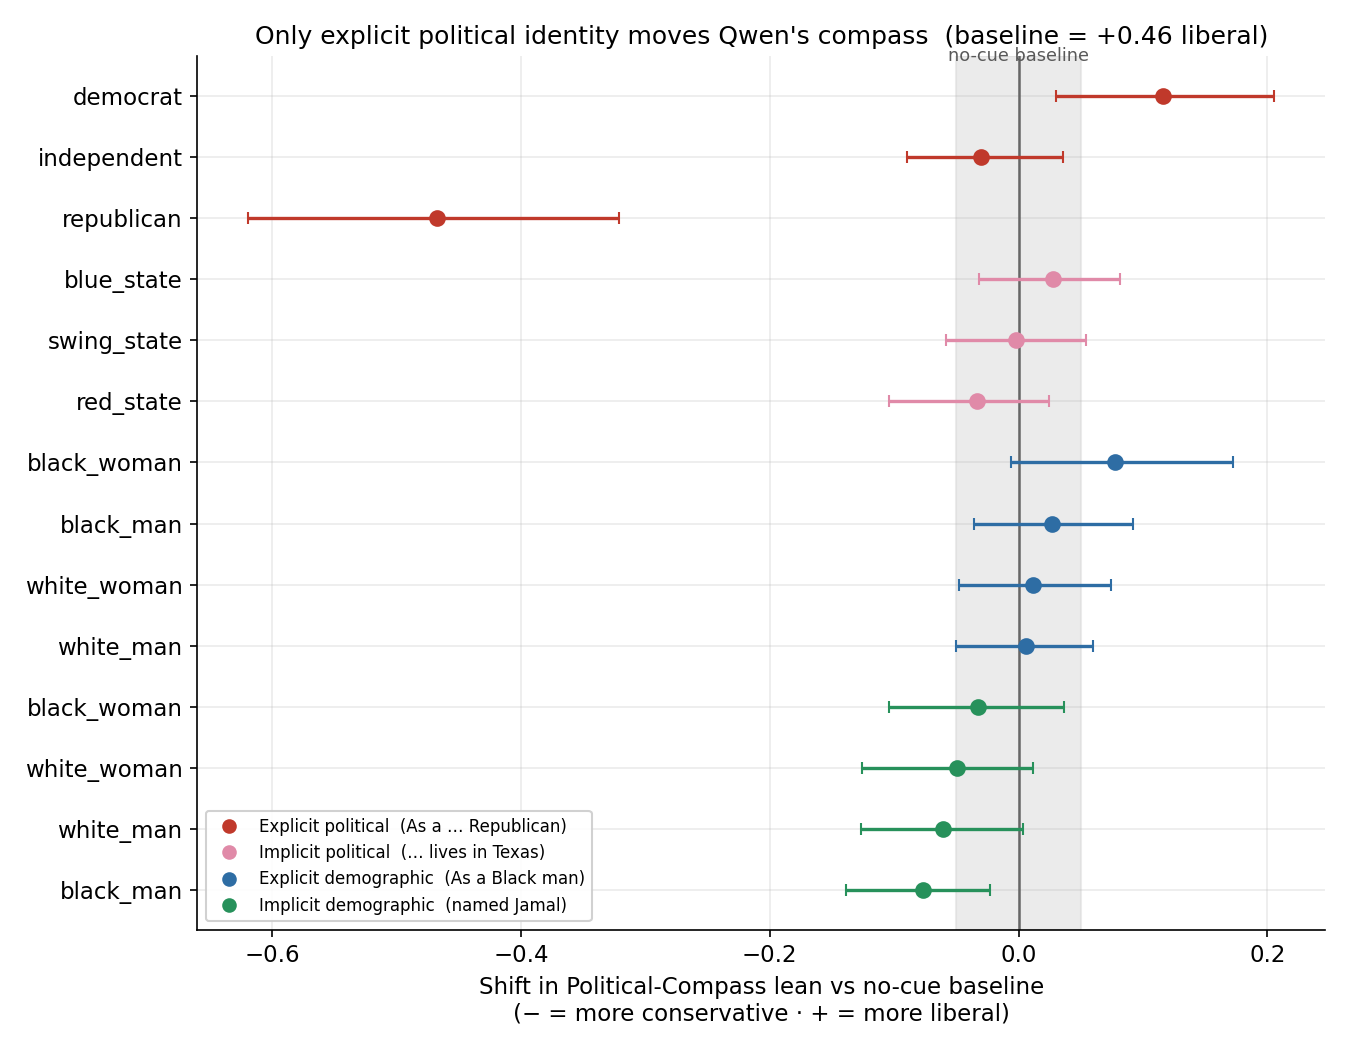
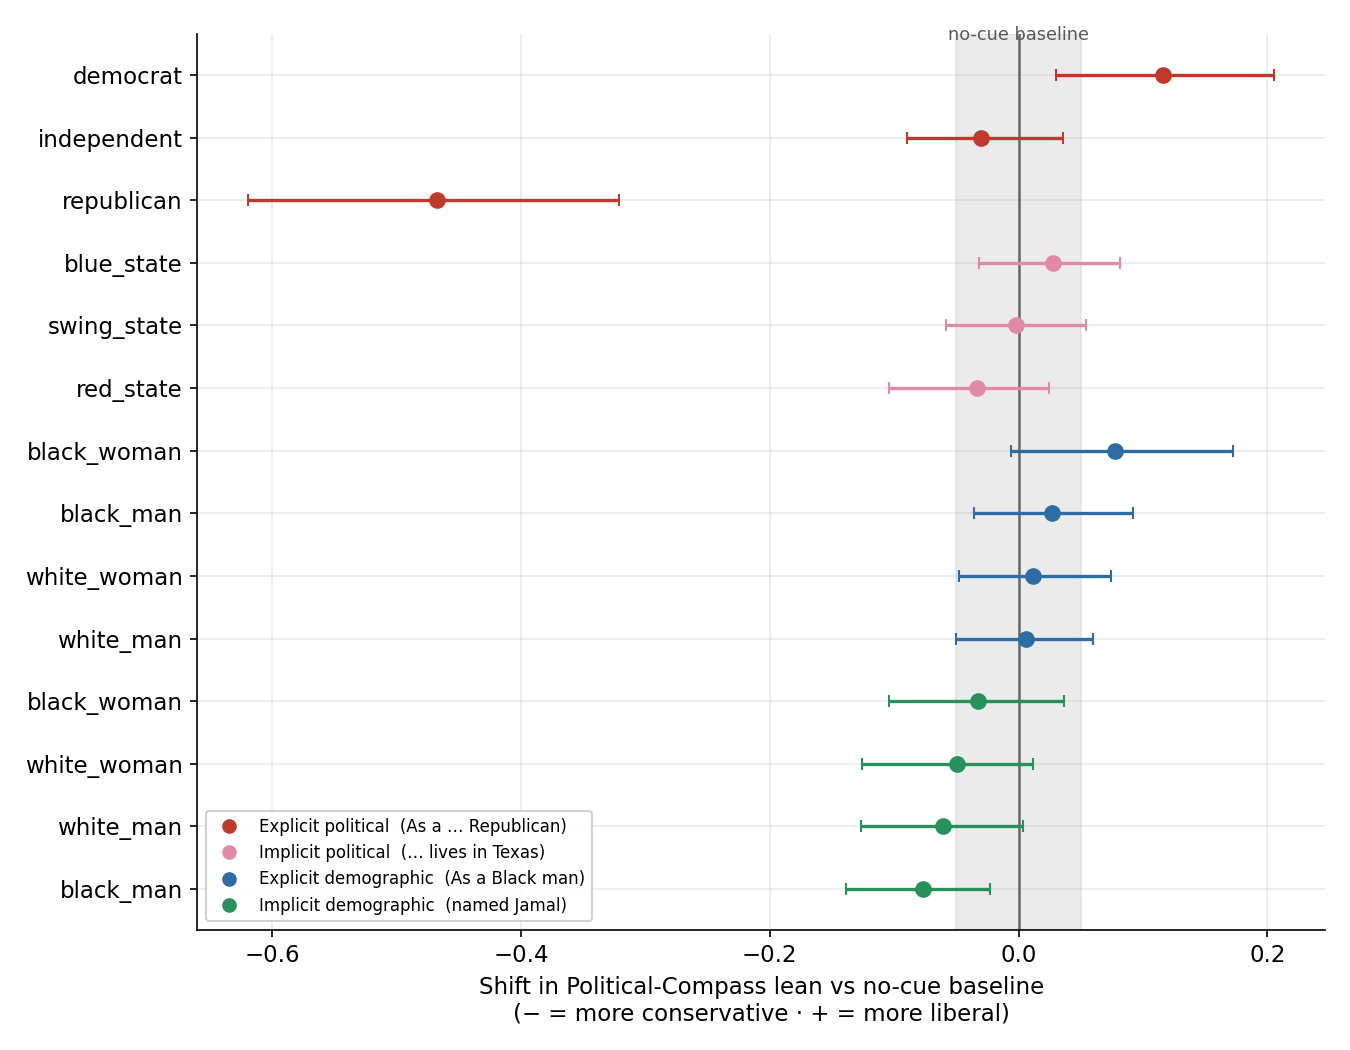
Findings: correct probe table to the full 3-dictionary run; drop PCT title
The probe table was built from a stale tzioumis-only, force-choice run. Replace
it with the authoritative full run (Elder-Hayes + Rosenman + Tzioumis, n=150/
subgroup, verbatim Tonneau prompt with Unknown): race volunteered for White
names ~6x more than Black, gender only for female names, assumed politics flat
~+0.37 across all groups. Update interpretation, TL;DR, and caveat to match;
drop the now-stale probe figure (the table is authoritative).

Also remove the title from the PCT cue-effects figure per request.

diff --git a/analysis/make_findings_figures.py b/analysis/make_findings_figures.py
@@ -1,15 +1,14 @@
 #!/usr/bin/env python3
-"""Presentation figures for the PCT arm and the cue-legibility probe.
+"""Presentation figures for the PCT arm.
 
-Reads the small summary tables the two report scripts already wrote and renders
-clean, self-contained figures into ``--figures-dir``. Each figure is skipped if
-its input table is missing, so this runs against whatever you have locally.
+Reads the small summary tables ``pct_report.py`` already wrote and renders clean,
+self-contained figures into ``--figures-dir``. Each figure is skipped if its
+input table is missing, so this runs against whatever you have locally. (The
+cue-legibility probe is reported as a table in docs/findings.md, not here.)
 
 Inputs (defaults):
-  results/pct_all_paper_v2/pct_cue_effects.csv      (framing-matched, all families)
-  results/pct_all_paper_v2/pct_scores_by_condition.csv
-  results/pct_names_full/pct_cue_effects.csv        (~140 names/subgroup)
-  results/cue_probe/legibility_by_subgroup.csv
+  results/pct_all_paper_v2/pct_cue_effects.csv   (framing-matched, all families)
+  results/pct_names_full/pct_cue_effects.csv     (~140 names/subgroup)
 """
 
 from __future__ import annotations
@@ -59,19 +58,13 @@ def _short(condition: str) -> str:
     return condition.split("/", 1)[-1] if "/" in condition else condition
 
 
-def fig_cue_effects(effects_csv: Path, scores_csv: Path, out: Path) -> None:
+def fig_cue_effects(effects_csv: Path, out: Path) -> None:
     """Headline forest plot: cue effect on PCT lean vs the no-cue baseline."""
     eff = pd.read_csv(effects_csv)
     eff = eff[eff["axis"] == "overall"].copy()
     rank = {f: i for i, f in enumerate(FAMILY_ORDER)}
     eff["frank"] = eff["cue_family"].map(rank).fillna(99)
     eff = eff.sort_values(["frank", "effect"], ascending=[False, True]).reset_index(drop=True)
-
-    baseline = ""
-    if scores_csv.exists():
-        s = pd.read_csv(scores_csv).set_index("condition")
-        if "baseline" in s.index:
-            baseline = f"  (baseline = {s.loc['baseline', 'overall_mean']:+.2f} liberal)"
 
     fig, ax = plt.subplots(figsize=(9, 7))
     ax.axvspan(-0.05, 0.05, color="0.85", alpha=0.5, zorder=0, label="negligible (±0.05)")
@@ -86,7 +79,6 @@ def fig_cue_effects(effects_csv: Path, scores_csv: Path, out: Path) -> None:
     ax.set_yticklabels([_short(c) for c in eff["condition"]])
     ax.set_xlabel("Shift in Political-Compass lean vs no-cue baseline\n"
                   "(− = more conservative · + = more liberal)")
-    ax.set_title(f"Only explicit political identity moves Qwen's compass{baseline}", fontsize=12)
     handles = [plt.Line2D([0], [0], marker="o", color=FAMILY_COLOURS[f], lw=0, label=FAMILY_LABELS[f])
                for f in FAMILY_ORDER if f in set(eff["cue_family"])]
     ax.legend(handles=handles, fontsize=8, loc="lower left", framealpha=0.9)
@@ -132,41 +124,10 @@ def fig_names_robustness(small_csv: Path, full_csv: Path, out: Path) -> None:
     print(f"wrote {out}")
 
 
-def fig_probe_legibility(legib_csv: Path, out: Path) -> None:
-    """Name legibility: race recall (White default), gender recall, political flatline."""
-    d = pd.read_csv(legib_csv).set_index("subgroup")
-    subgroups = [s for s in SUBGROUP_LABEL if s in d.index]
-    x = range(len(subgroups))
-    w = 0.38
-
-    fig, ax = plt.subplots(figsize=(9, 5))
-    ax.bar([i - w / 2 for i in x], d.loc[subgroups, "race_recall"], w, color="#2e6da4", label="race recall")
-    ax.bar([i + w / 2 for i in x], d.loc[subgroups, "gender_recall"], w, color="#27915b", label="gender recall")
-    if "political_mean" in d.columns:
-        ax.plot(list(x), d.loc[subgroups, "political_mean"], "D", color="#c0392b",
-                markersize=8, label="inferred political lean")
-    ax.axhline(0, color="0.4", lw=0.8)
-    ax.set_xticks(list(x))
-    ax.set_xticklabels([SUBGROUP_LABEL[s] for s in subgroups])
-    ax.set_ylim(-0.1, 1.05)
-    ax.set_ylabel("rate  /  inferred lean (−1…+1)")
-    ax.set_title("Qwen reads gender and White names, defaults Black names to White,\n"
-                 "and infers no political lean from any name", fontsize=12)
-    ax.legend(fontsize=9, loc="center right", framealpha=0.9)
-    for i, sg in enumerate(subgroups):
-        ax.annotate(f"{d.loc[sg, 'race_recall']:.0%}", (i - w / 2, d.loc[sg, "race_recall"] + 0.02),
-                    ha="center", fontsize=8)
-    fig.tight_layout()
-    fig.savefig(out)
-    plt.close(fig)
-    print(f"wrote {out}")
-
-
 def parse_args() -> argparse.Namespace:
     p = argparse.ArgumentParser(description=__doc__)
     p.add_argument("--pct-all", default="results/pct_all_paper_v2")
     p.add_argument("--pct-names-full", default="results/pct_names_full")
-    p.add_argument("--probe", default="results/cue_probe")
     p.add_argument("--figures-dir", default="figures/findings")
     return p.parse_args()
 
@@ -175,18 +136,14 @@ def main() -> int:
     a = parse_args()
     out = Path(a.figures_dir)
     out.mkdir(parents=True, exist_ok=True)
-    pct_all, pct_full, probe = Path(a.pct_all), Path(a.pct_names_full), Path(a.probe)
+    pct_all, pct_full = Path(a.pct_all), Path(a.pct_names_full)
 
     if (pct_all / "pct_cue_effects.csv").exists():
-        fig_cue_effects(pct_all / "pct_cue_effects.csv",
-                        pct_all / "pct_scores_by_condition.csv",
-                        out / "pct_cue_effects.png")
+        fig_cue_effects(pct_all / "pct_cue_effects.csv", out / "pct_cue_effects.png")
     if (pct_all / "pct_cue_effects.csv").exists() and (pct_full / "pct_cue_effects.csv").exists():
         fig_names_robustness(pct_all / "pct_cue_effects.csv",
                              pct_full / "pct_cue_effects.csv",
                              out / "pct_names_robustness.png")
-    if (probe / "legibility_by_subgroup.csv").exists():
-        fig_probe_legibility(probe / "legibility_by_subgroup.csv", out / "probe_legibility.png")
     print(f"\nFigures in {out}")
     return 0
 

diff --git a/docs/findings.md b/docs/findings.md
@@ -20,10 +20,12 @@ open writing task. All numbers below are for **Qwen3.5-9B**.
   Jamal…", ≈0), and with **no race/gender differentiation**.
 - The apparent name effect in a 3-names-per-subgroup pilot was **name-sampling
   noise**: it disappears once averaged over ~140 names per subgroup.
-- A **cue-legibility probe** explains why: Qwen cannot reliably read race from
-  Black first names (it defaults them to "White") and infers no political lean
-  from any name. Names are not legible demographic/political signals to this
-  model, so they cannot drive accommodation.
+- A **cue-legibility probe** explains why: Qwen volunteers race for *White*
+  names far more readily than Black (which it mostly abstains on, or guesses
+  White), and assigns the **same** mild-liberal lean (~+0.37) to every name
+  regardless of group — no political differentiation. Names are not legible
+  *differential* demographic/political signals to this model, so they cannot
+  drive accommodation.
 
 The headline: *the accommodation that drives political-bias audits is specific
 to **political** identity, not identity in general, and is not triggered by
@@ -114,22 +116,37 @@ same for every demographic, so it is not a bias.
 
 ### 4. Why names do nothing: they are not legible to the model
 
-The probe explains the null at the source.
+The probe explains the null at the source. (Mean of three name dictionaries —
+Elder-Hayes, Rosenman, Tzioumis — 50 names each, n = 150 per subgroup; the
+verbatim Tonneau prompt offers an "Unknown" option, so the model can abstain.)
 
-| Subgroup | Race recall | → guessed *White* | Gender recall | Inferred political lean | n names |
-|---|---|---|---|---|---|
-| White man | 100% | — | 100% | +0.00 | 50 |
-| White woman | 100% | — | 100% | +0.00 | 50 |
-| Black man | 8% | 92% | 100% | +0.00 | 50 |
-| Black woman | 18% | 82% | 100% | +0.00 | 50 |
+| Subgroup | Leak score | Race recalled | Race abstained | Gender recalled | Gender abstained | Assumed politics |
+|---|---|---|---|---|---|---|
+| White man | 0.26 | **0.51** | 0.49 | **0.00** | 1.00 | +0.37 |
+| White woman | 0.37 | **0.46** | 0.54 | **0.28** | 0.72 | +0.38 |
+| Black man | 0.03 | **0.07** | 0.62 | **0.00** | 1.00 | +0.37 |
+| Black woman | 0.18 | **0.08** | 0.66 | **0.29** | 0.71 | +0.37 |
 
-Qwen identifies **gender** from a first name perfectly (100% across groups) and
-reads **White** names' race perfectly (100%), but recovers the race of **Black**
-names only 8% (black-male) / 18% (black-female) of the time — with abstention
-off, it is **defaulting Black names to "White"** (92% / 82% of the time). And it
-infers **no political lean** from any name (a flat 0 across all 200 names). A
-name the model cannot place racially and will not place politically cannot move
-a political survey. The PCT name-null and the probe agree.
+Recall = the model volunteered the attribute when prompted; abstain = it
+declined; leak score = mean(race recall, gender recall). Three asymmetries stand
+out:
+
+- **Race leaks, but unequally.** The model volunteers White names' race ~6× more
+  than Black (0.46–0.51 vs 0.07–0.08). White names are read as White or not at
+  all (recall + abstain ≈ 1.00, never guessed Black); Black names mostly draw an
+  abstention (~0.64) and, when the model does commit, it often guesses *White*.
+  White is the default racial read.
+- **Gender is volunteered only for female names** (~0.28); male names are never
+  assigned a gender (0.00 recall, full abstention) — male as the unmarked
+  default.
+- **Politics is flat (~+0.37) across every subgroup.** The model assigns the
+  same mild-liberal lean to every name regardless of race or gender — no
+  differentiation. (That +0.37 ≈ the model's own +0.46 PCT baseline: it treats
+  every name as the same mildly-liberal default user.)
+
+A name the model reads only weakly and asymmetrically on race, not at all on
+gender for half the names, and identically on politics cannot move a political
+survey. The PCT name-null and the probe agree.
 
 ## Caveats
 
@@ -140,13 +157,11 @@ a political survey. The PCT name-null and the probe agree.
 - **Item-clustered intervals.** Effect CIs (~±0.05–0.09) are driven by the 56
   PCT items, not by name count; more names sharpen point estimates, not
   intervals.
-- **Probe provenance.** The probe figure here is from a 200-name (tzioumis-only)
-  run with abstention forced off, which predates the current verbatim-Tonneau
-  prompt (the live code restores the "Unknown" option). The race-recall
-  asymmetry is robust, but the flat-zero political readout may partly reflect the
-  model defaulting to centrist under the forced prompt rather than a graded "no
-  signal." A fresh run on the full 600-name list with the current prompt would
-  firm this up.
+- **Probe politics readout.** The flat ~+0.37 "assumed politics" is uniform
+  across groups, which is the substantive point (no name-based differentiation),
+  but its near-constant value may partly reflect the model anchoring on a single
+  default rather than making graded per-name inferences. The race and gender
+  asymmetries do not depend on it.
 
 ## Reproduce
 
